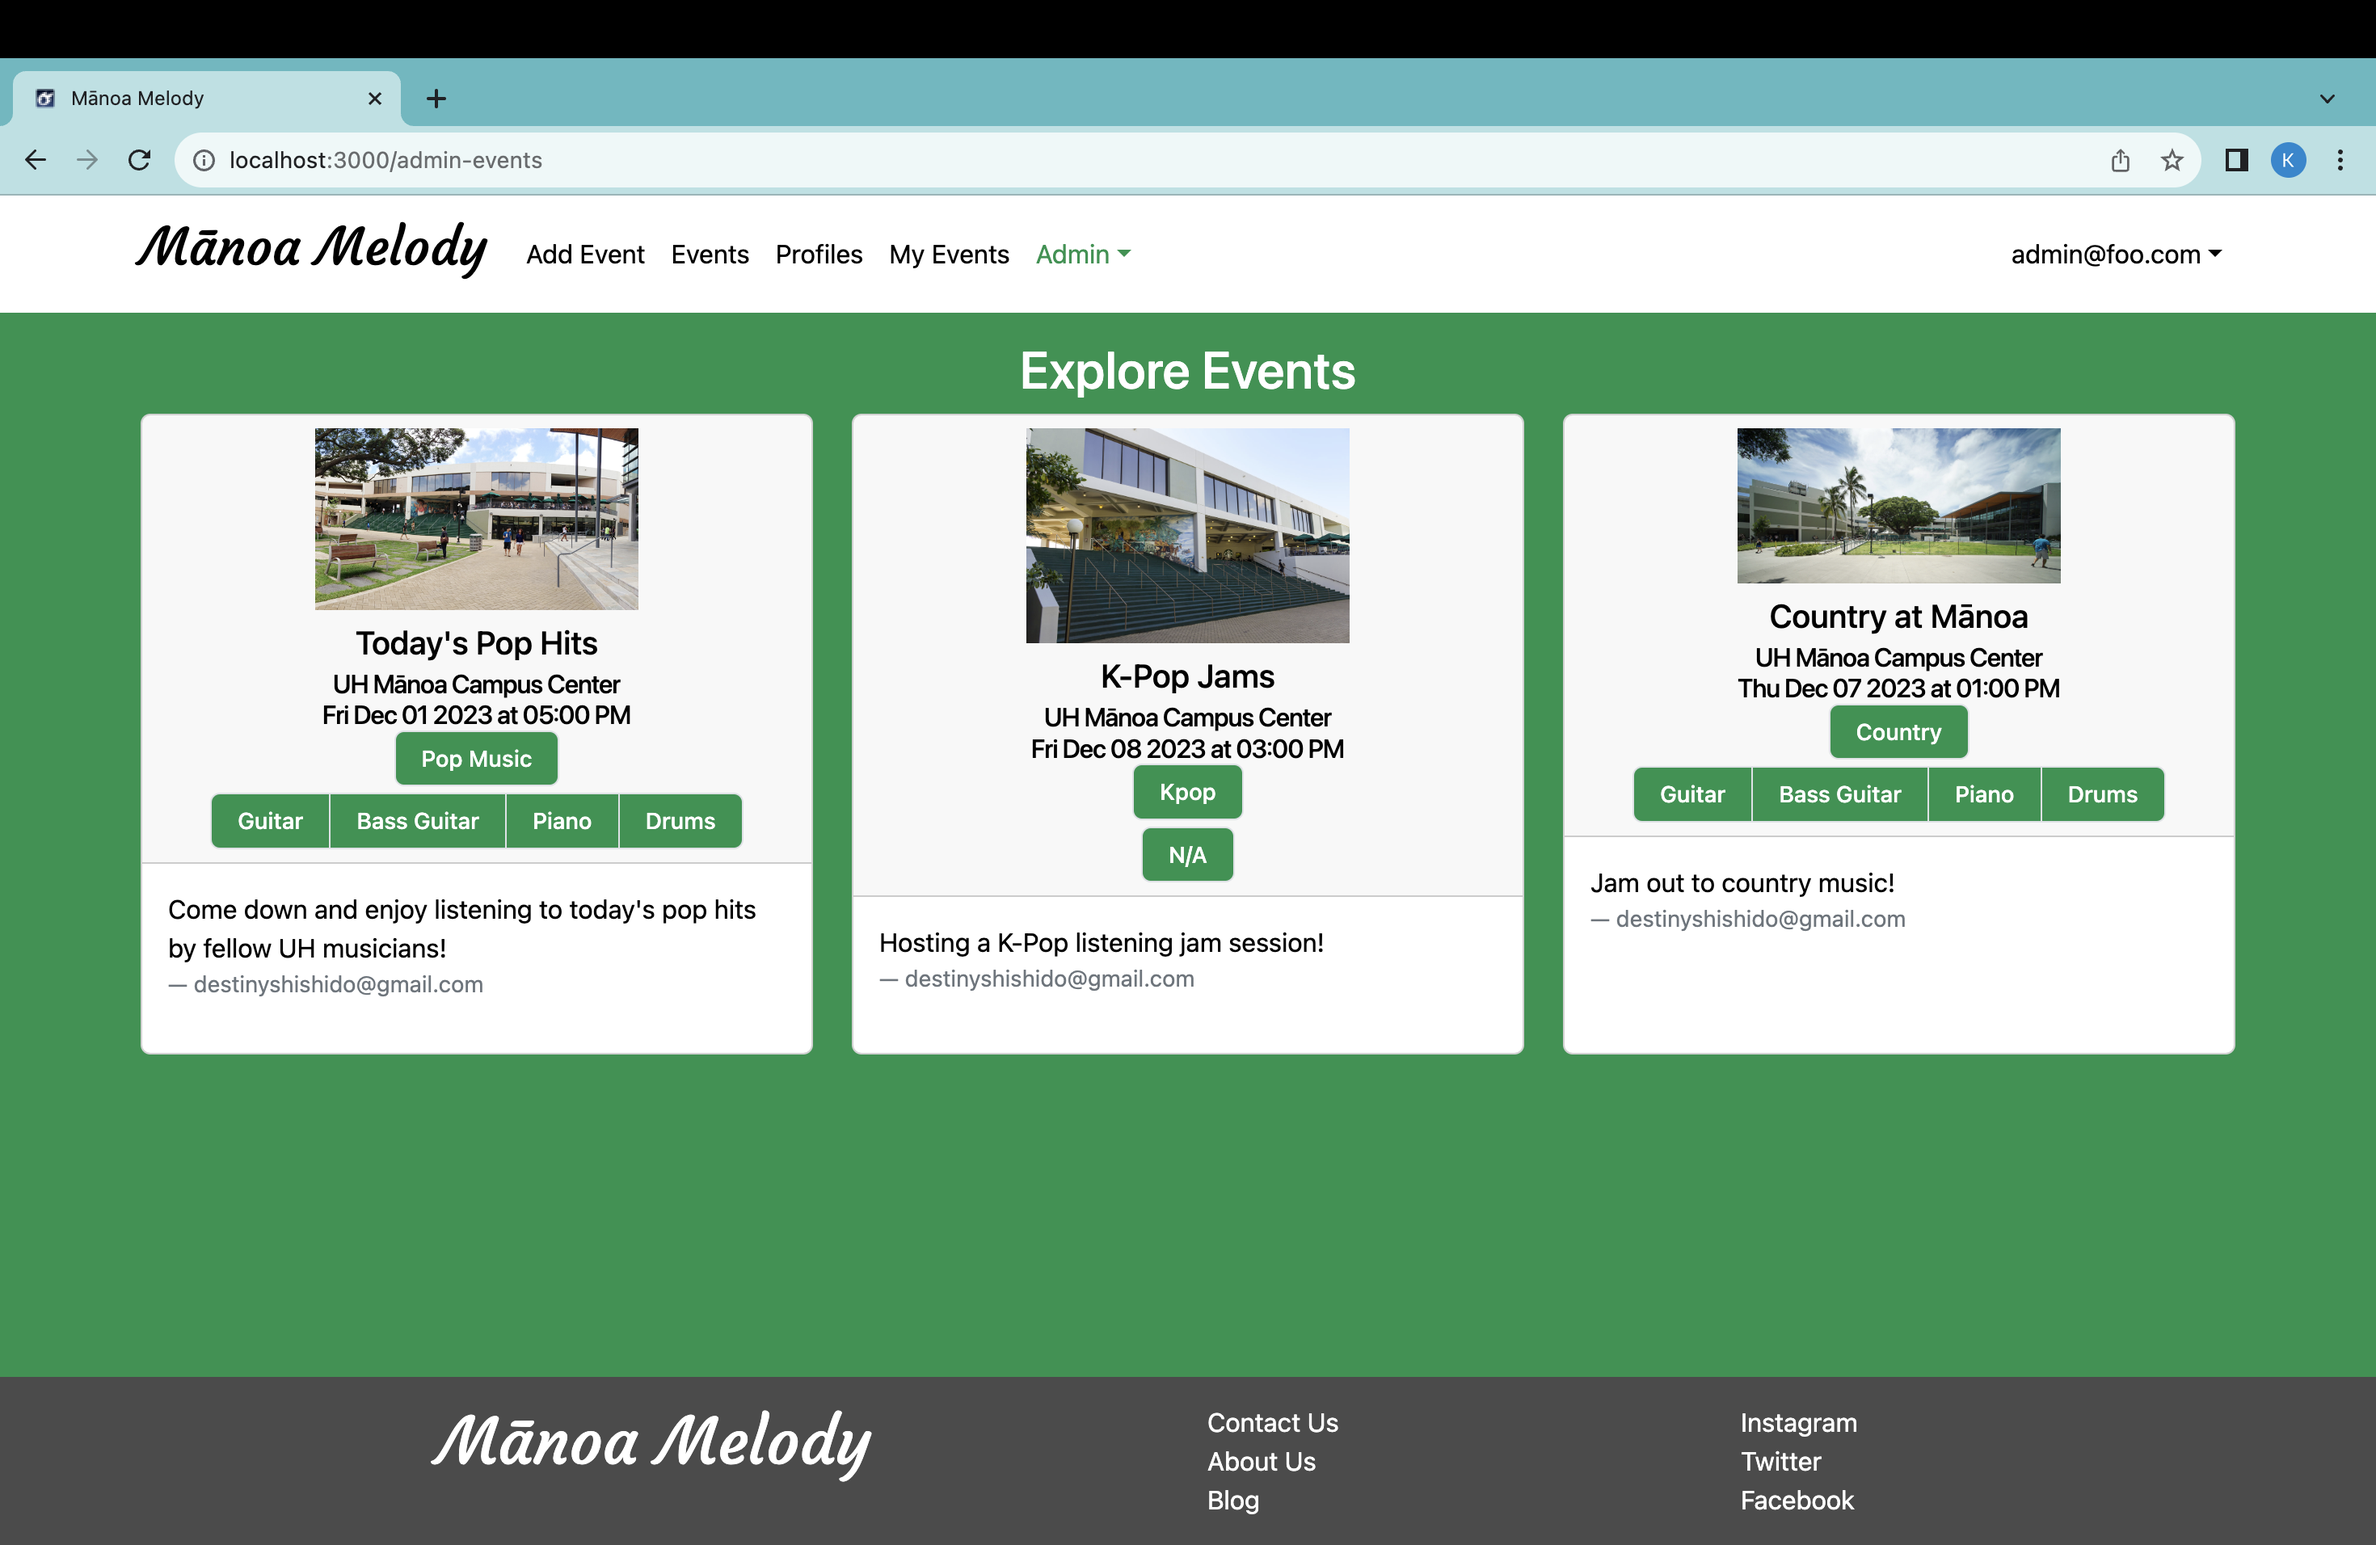
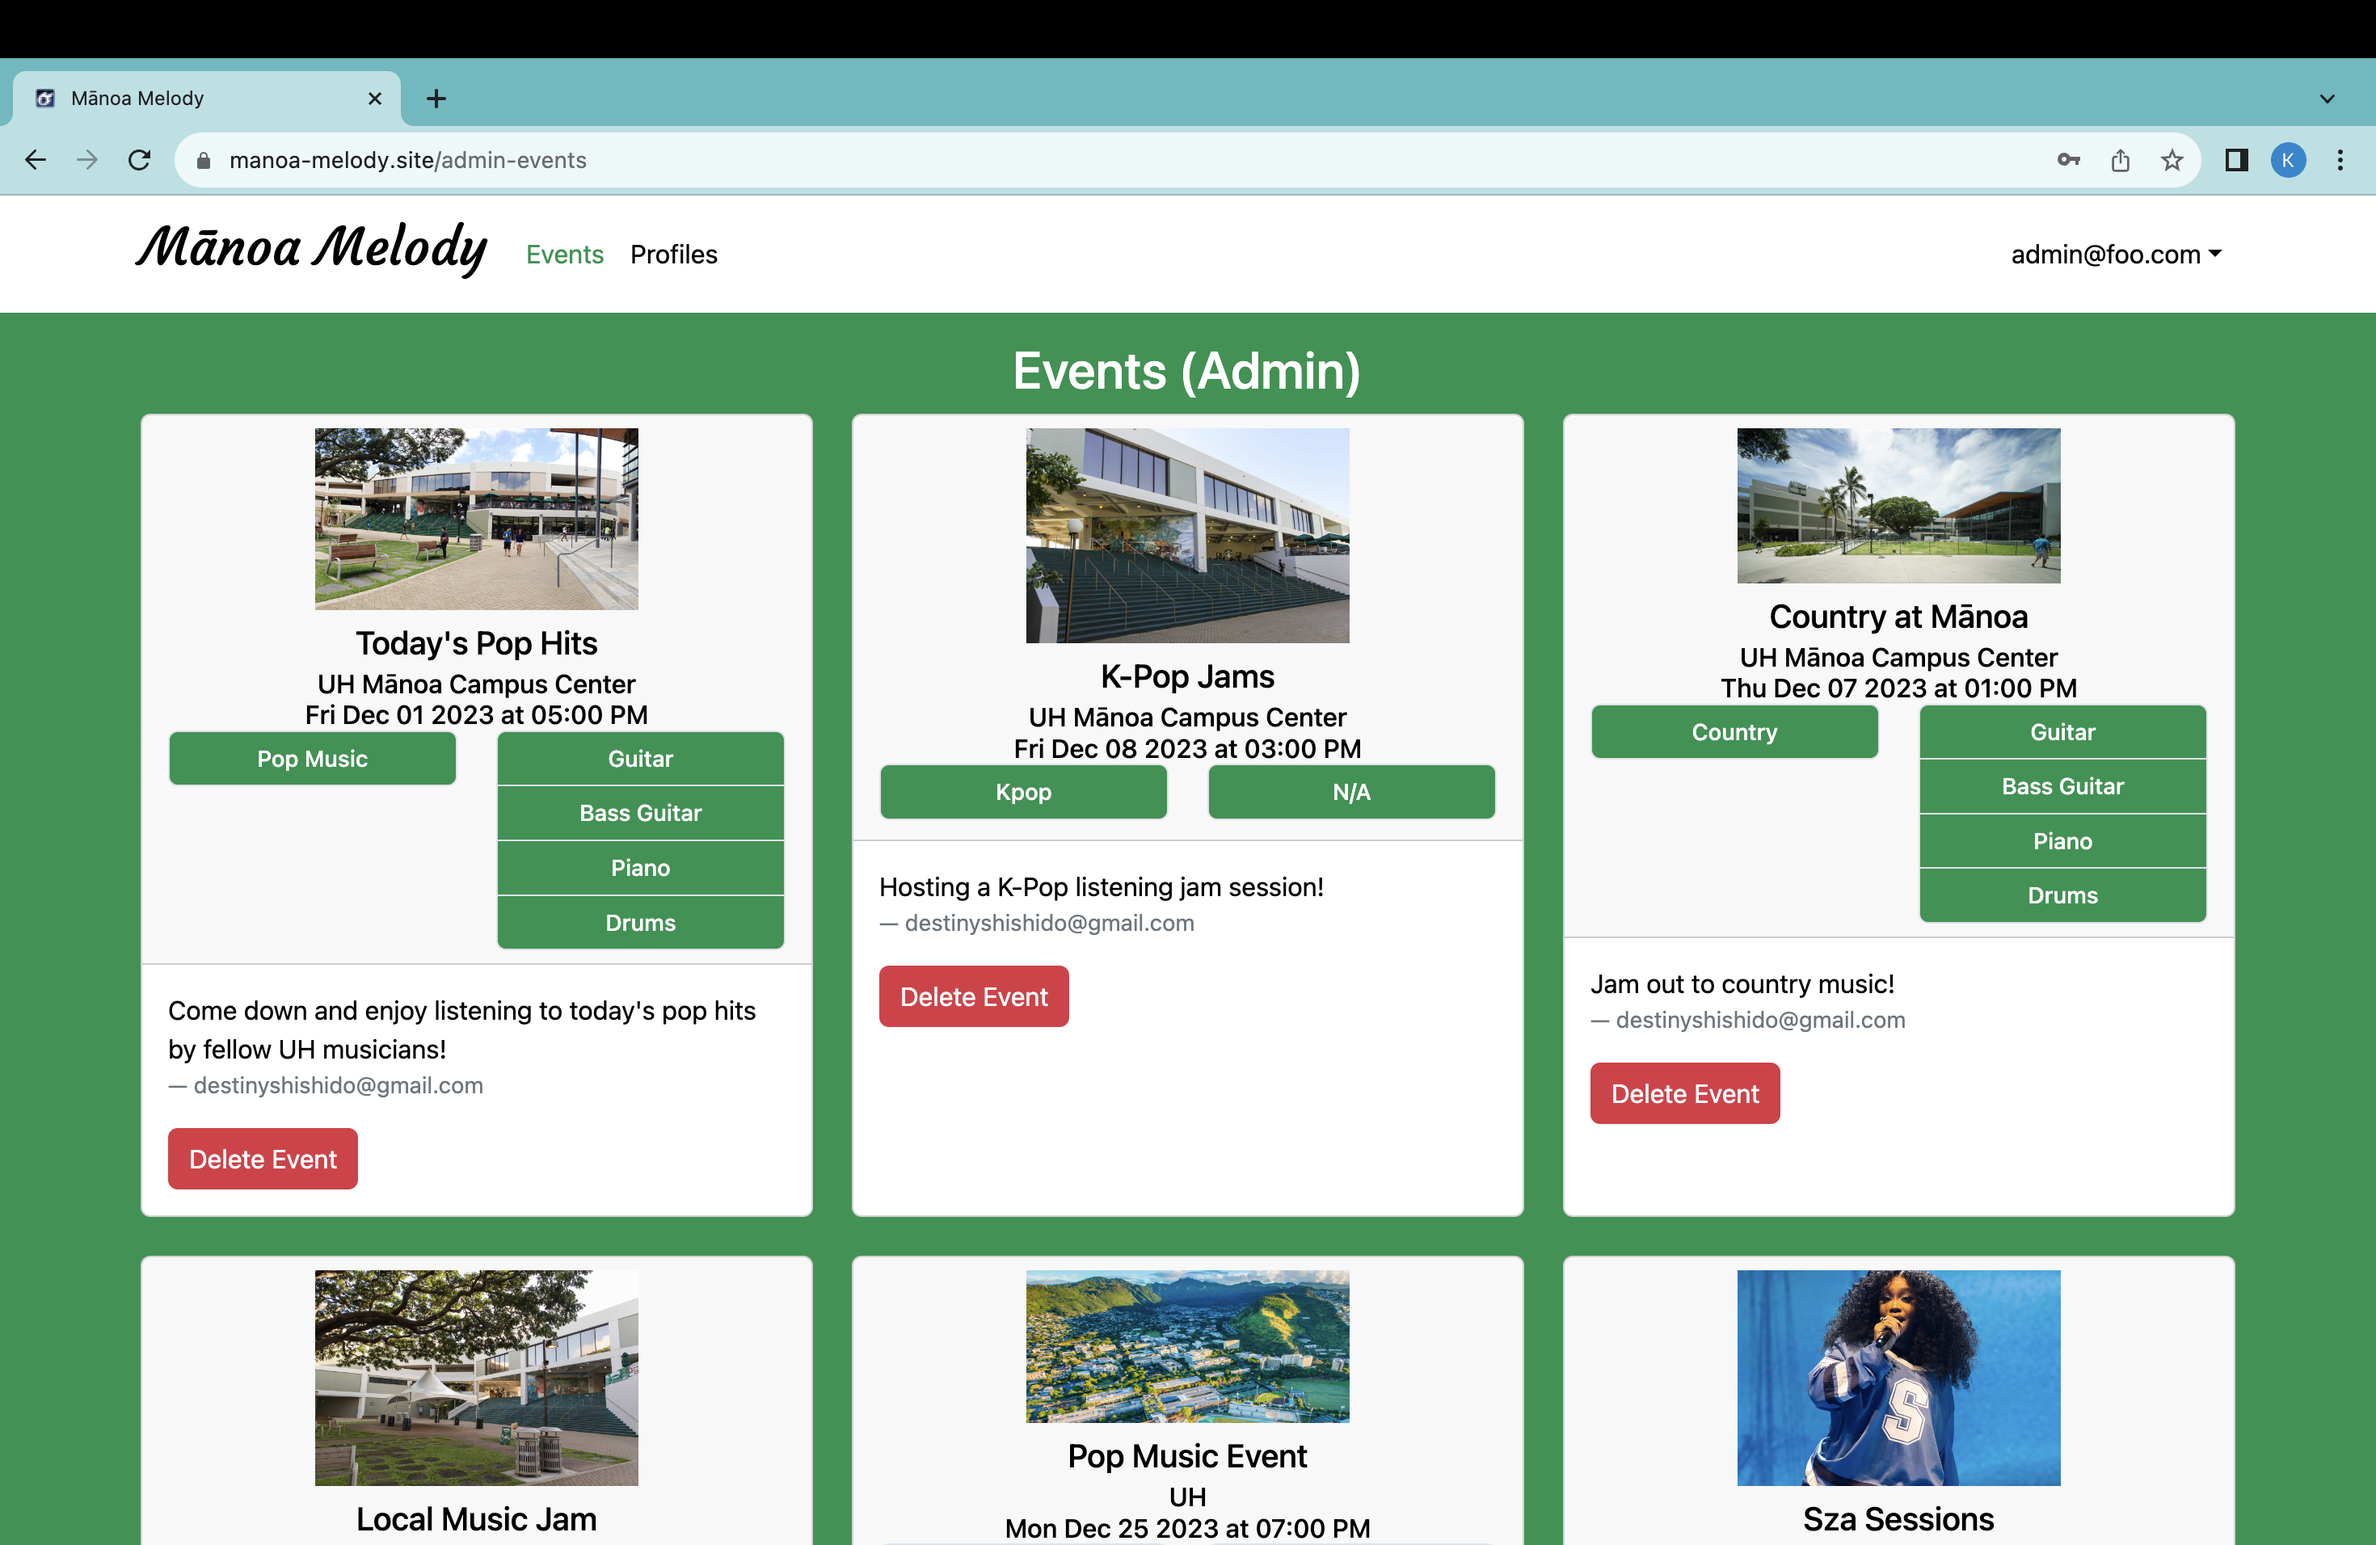
M3

diff --git a/index.md b/index.md
@@ -58,34 +58,38 @@ Users who would like to advertise their events (jam sessions, live concerts, etc
 
 ### Events Page
 Users can explore events that are being hosted by the University and students by clicking on the Events page link on the NavBar.  In the Events page, they will be shown all events and their descriptions:
-<img src="doc/m2/events-page.png">
+<img src="doc/m3/events-page.png">
 
 ### Profiles Page
 Users can explore other users on the application by clicking on the Profiles page link on the NavBar. The Profiles page will show users and their profiles. This page allows people to find student musicians and also students who share the same musical interests as them. Their profile includes their different social media profiles, where they can use to meet and network with others:
-<img src="doc/m2/profiles-page.png">
+<img src="doc/m3/profiles-page.png">
 
 ### My Events Page
-To access the My Events page, the user may click on the My Events page link. This page showcases all events that were created by the user:
-<img src="doc/m2/my-events-page.png">
+To access the My Events page, the user may click on the My Events page link. This page showcases all events that were created by the user. Here, they have the option to edit the event or to delete the event:
+<img src="doc/m3/my-events-page.png">
+
+### Edit Event Page
+A person may edit an event they created by clicking on the Edit Event button on the My Events page. They will be taken to a form that displays the stored event information. Here, they may edit the event information and submit the made changes:
+<img src="doc/m3/edit-event-page.png">
 
 ### My Profile Page
 When clicking on the My Profile page link, they will be redirected to their My Profile page, where they can look over their profile and be given the option to edit it:
-<img src="doc/m2/my-profile-page.png">
+<img src="doc/m3/my-profile-page.png">
 
 ### Edit Profile Page
-A person may edit their profile by clicking on the Edit button on the My Profile page, where they will be prompted to a form that displays their stored profile information. On this page, they may edit their profile and submit changes:
-<img src="doc/mockup/edit-profile-page.png">
+A person may edit their profile by clicking on the Edit Profile button on the My Profile page, where they will be prompted to a form that displays their stored profile information. On this page, they may edit their profile and submit changes:
+<img src="doc/m3/edit-profile-page.png">
 
 ### Admin Home Page
-If a user is assigned an “Admin” role, after logging in, their home page will include an updated NavBar similar to the user’s, but has a dropdown menu under Admin with access to two pages: Events and Profiles:
-<img src="doc/m2/admin-home-page.png">
+If a user is assigned an “Admin” role, after logging in, their home page will include an updated NavBar with the Events and Profiles pages:
+<img src="doc/m3/admin-home-page.png">
 
 ### Admin Events Page
-The admin can click on the Admin Events page link in the dropdown menu of Admin on the NavBar, and will be redirected to the Admin Events page. This page showcases all the events posted by users, and allows the admin to remove any events that are inappropriate for users:
+The admin can click on the Admin Events page link in the NavBar, and will be redirected to the Admin Events page. This page showcases all the events posted by users, and allows the admin to remove any events that are inappropriate for users:
 <img src="doc/m3/admin-events-page.png">
 
 ### Admin Profiles Page
-The admin can click on the Admin Profiles page link in the dropdown menu of Admin on the NavBar, and will be redirected to the Admin Profiles page. This page showcases all the profiles of the users, and allows the admin to remove any profile that is inappropriate for users:
+The admin can click on the Admin Profiles page link in the NavBar, and will be redirected to the Admin Profiles page. This page showcases all the profiles of the users, and allows the admin to remove any profile that is inappropriate for users:
 <img src="doc/m3/admin-profiles-page.png">
 
 ## Community Feedback
